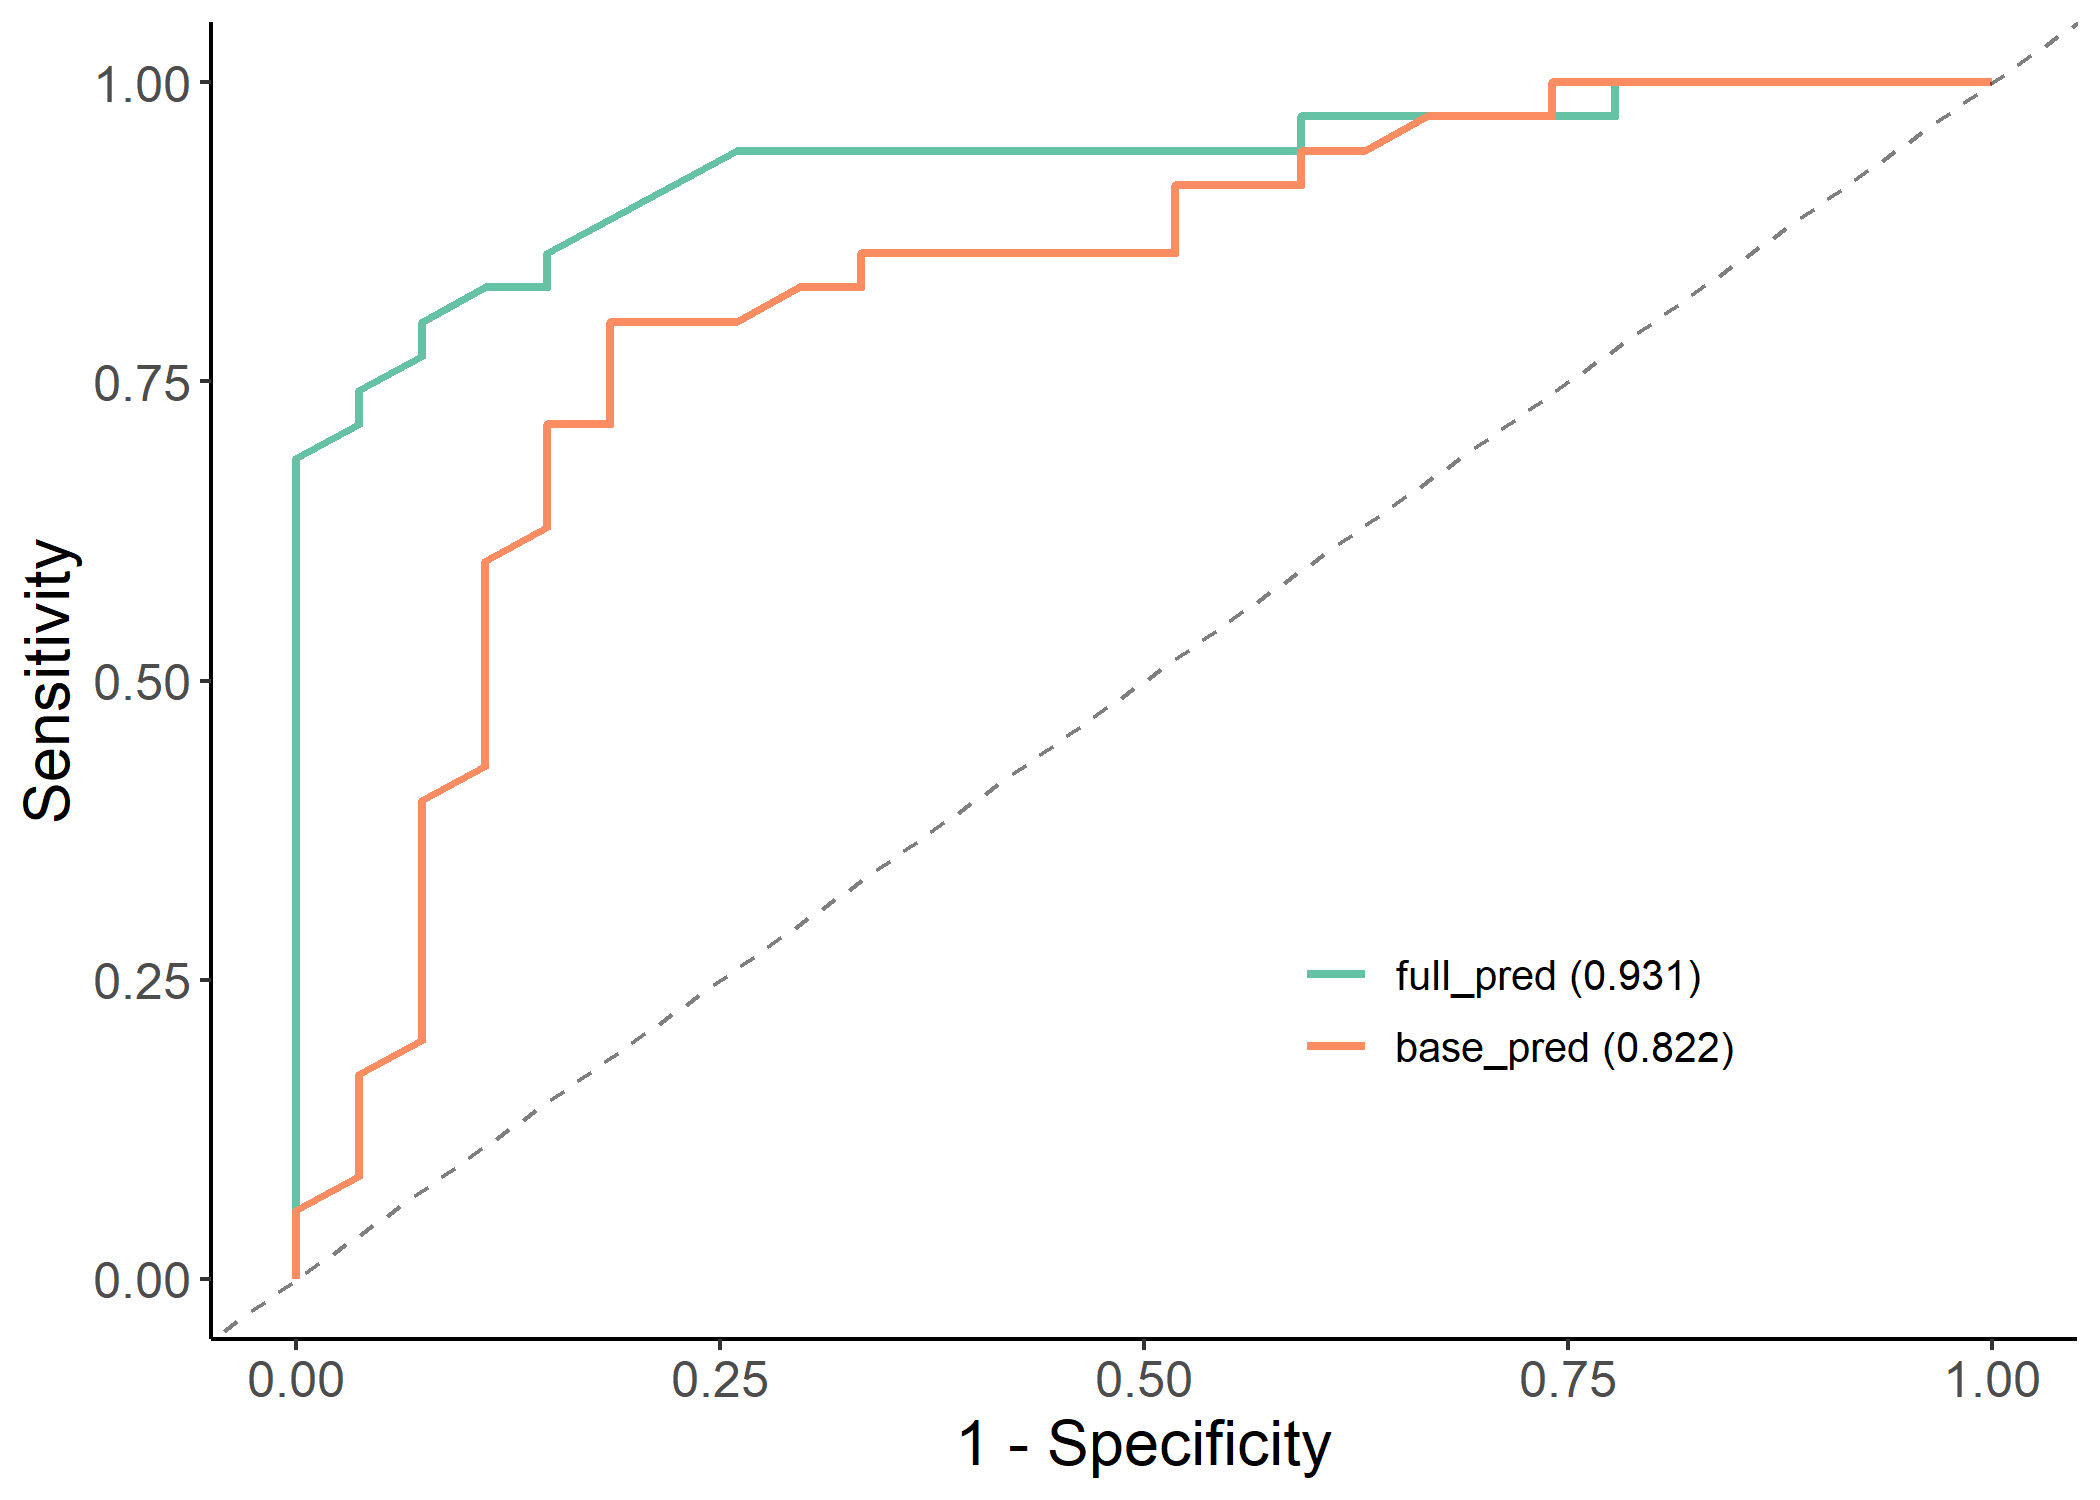
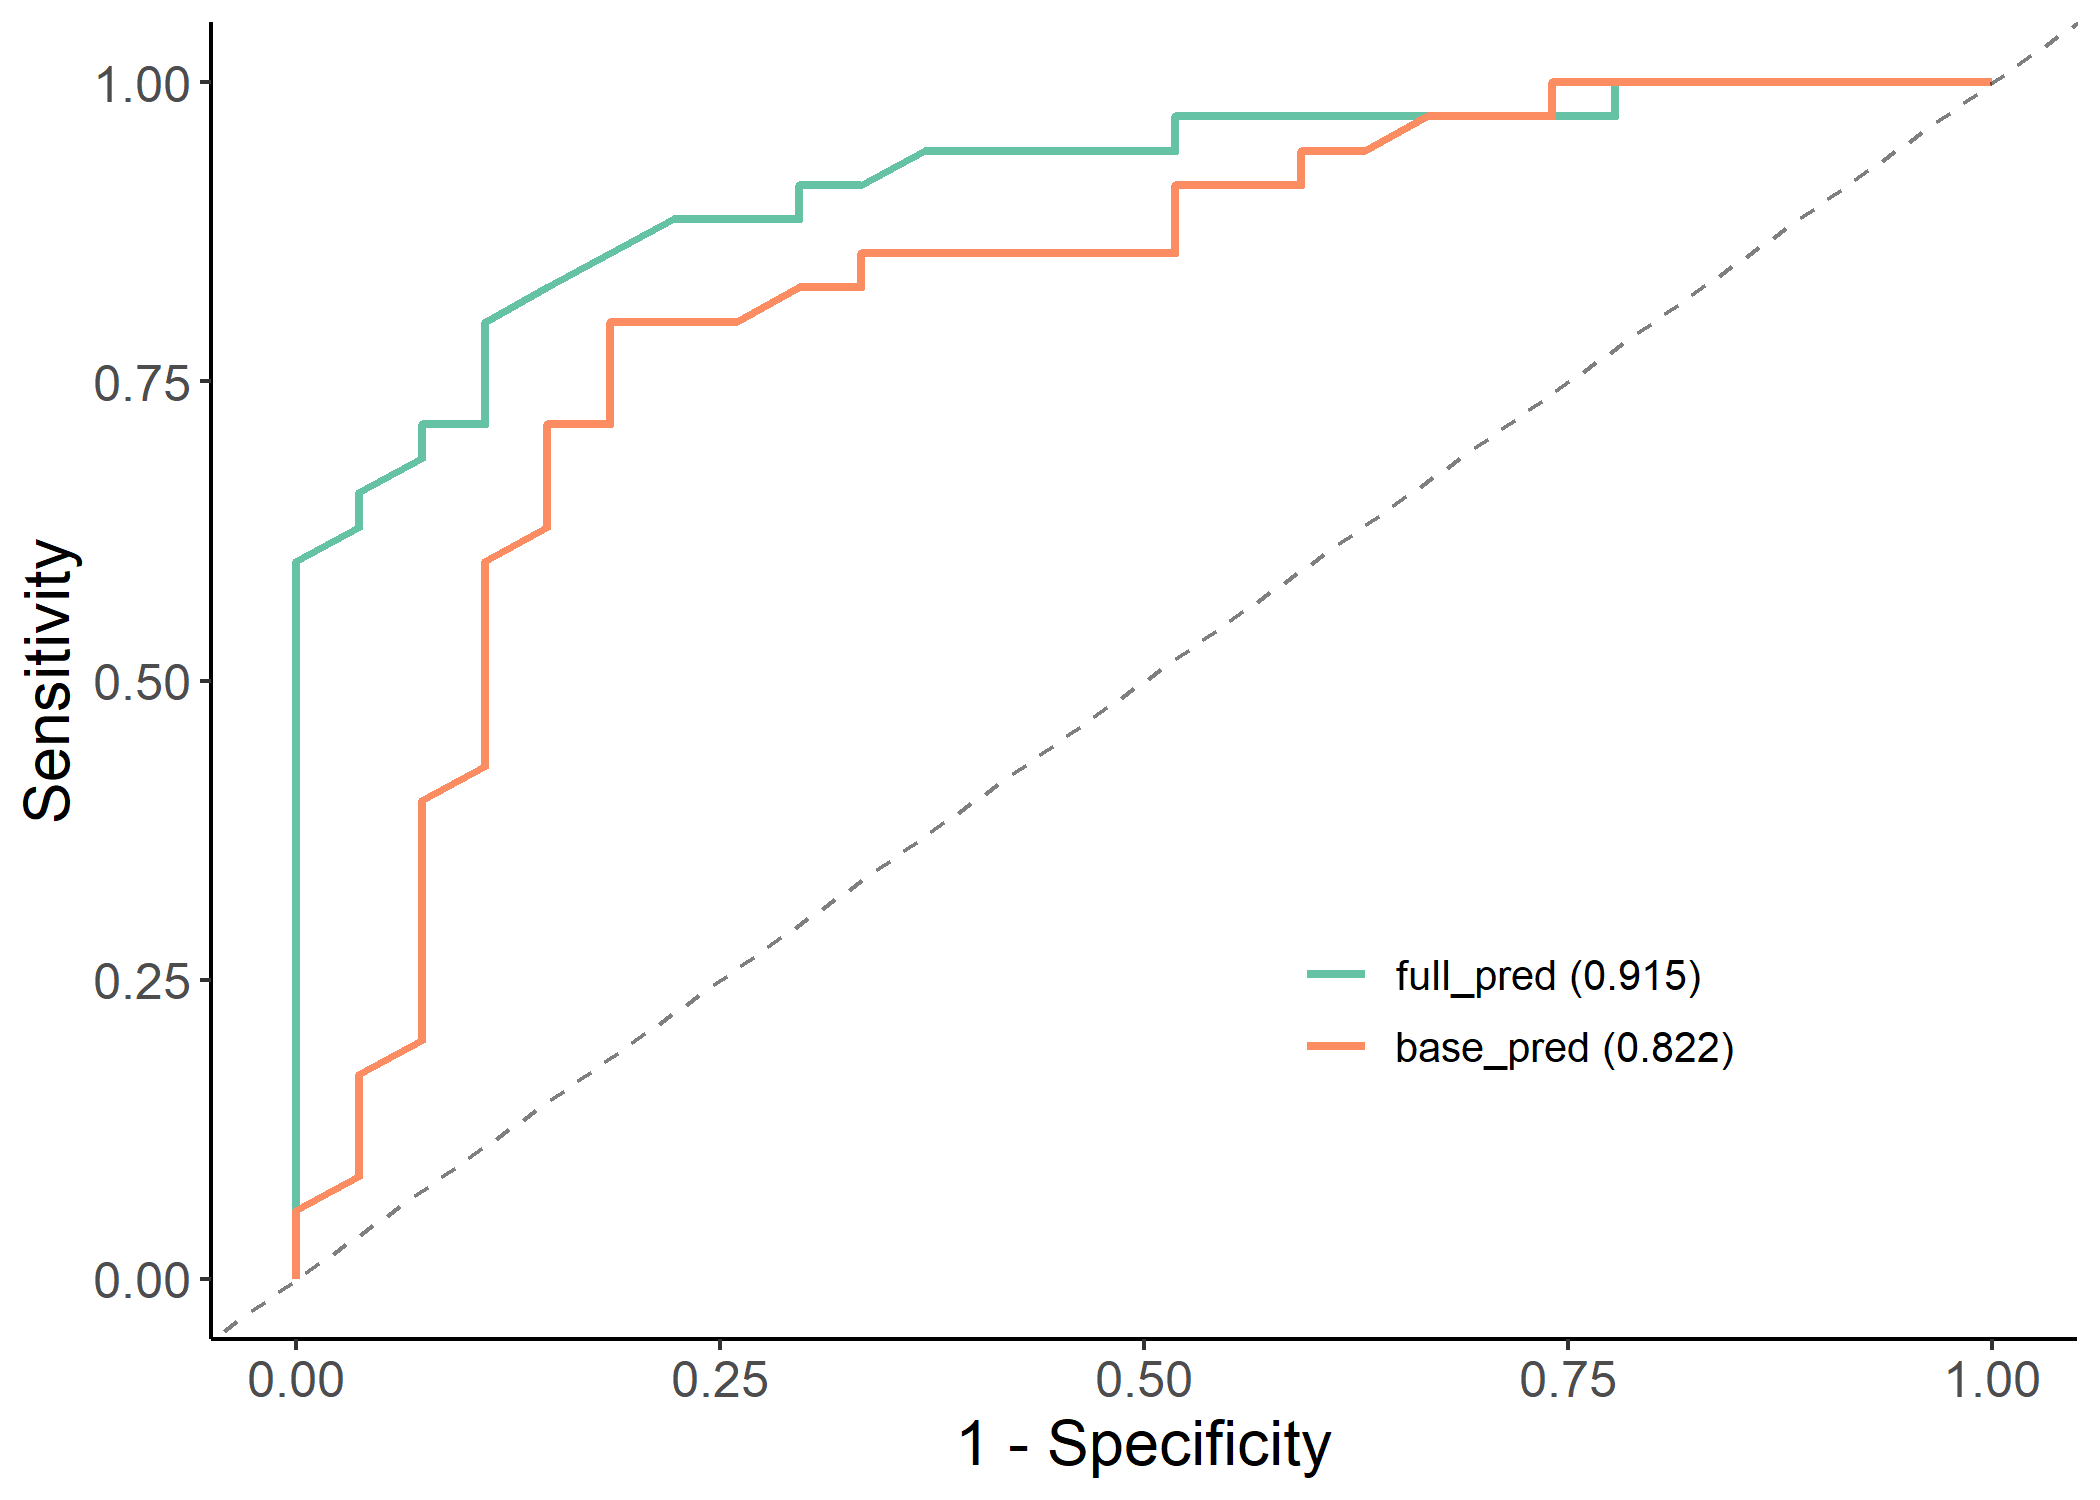
update example

Changed region(s): [[0.1238, 0.092, 0.4333, 0.368], [0.5571, 0.0613, 0.619, 0.1227], [0.7738, 0.644, 0.8048, 0.6747]]

diff --git a/README.md b/README.md
@@ -164,7 +164,7 @@ knitr::kable(tables$baseline) # Display the table
 | wt (mean (SD)) | 3.2 (1.0) | 3.7 (0.9) | 2.6 (0.7) | 0.001 |  |
 | qsec (mean (SD)) | 17.8 (1.8) | 16.7 (1.1) | 19.3 (1.4) | \<0.001 |  |
 | am = 1 (%) | 13 (40.6) | 6 (33.3) | 7 (50.0) | 0.556 |  |
-| gear (%) |  |  |  | 0.002 | exact |
+| gear (%) |  |  |  | 0.001 | exact |
 | 3 | 15 (46.9) | 12 (66.7) | 3 (21.4) |  |  |
 | 4 | 12 (37.5) | 2 (11.1) | 10 (71.4) |  |  |
 | 5 | 5 (15.6) | 4 (22.2) | 1 (7.1) |  |  |
@@ -263,8 +263,8 @@ df$dead <- ifelse(df$time <= 100 & df$status == 0, NA, df$time <= 100)
 df <- na.omit(df[, -c(1:3)])
 
 model0 <- glm(dead ~ age + frail, family = binomial(), data = df)
-df$base_pred <- predict(model0, type = "response")
 model1 <- glm(dead ~ ., family = binomial(), data = df)
+df$base_pred <- predict(model0, type = "response")
 df$full_pred <- predict(model1, type = "response")
 
 # Generating most of the useful plots and metrics for model comparison
@@ -276,8 +276,8 @@ knitr::kable(results$metric_table)
 
 |  | Model | AUC | Accuracy | Sensitivity | Specificity | Pos Pred Value | Neg Pred Value | F1 | Kappa | Brier | cutoff | Youden | HosLem |
 |:---|:---|:---|---:|---:|---:|---:|---:|---:|---:|---:|---:|---:|---:|
-| 2 | full_pred | 0.931 (0.869, 0.994) | 0.855 | 0.8 | 0.926 | 0.933 | 0.781 | 0.862 | 0.711 | 0.102 | 0.63 | 0.726 | 0.577 |
-| 1 | base_pred | 0.822 (0.711, 0.933) | 0.806 | 0.8 | 0.815 | 0.848 | 0.759 | 0.824 | 0.610 | 0.171 | 0.49 | 0.615 | 0.405 |
+| 2 | full_pred | 0.915 (0.847, 0.984) | 0.839 | 0.8 | 0.889 | 0.903 | 0.774 | 0.848 | 0.677 | 0.114 | 0.626 | 0.689 | 0.944 |
+| 1 | base_pred | 0.822 (0.711, 0.933) | 0.806 | 0.8 | 0.815 | 0.848 | 0.759 | 0.824 | 0.610 | 0.171 | 0.490 | 0.615 | 0.405 |
 
 ``` r
 plot(results$roc_plot)
